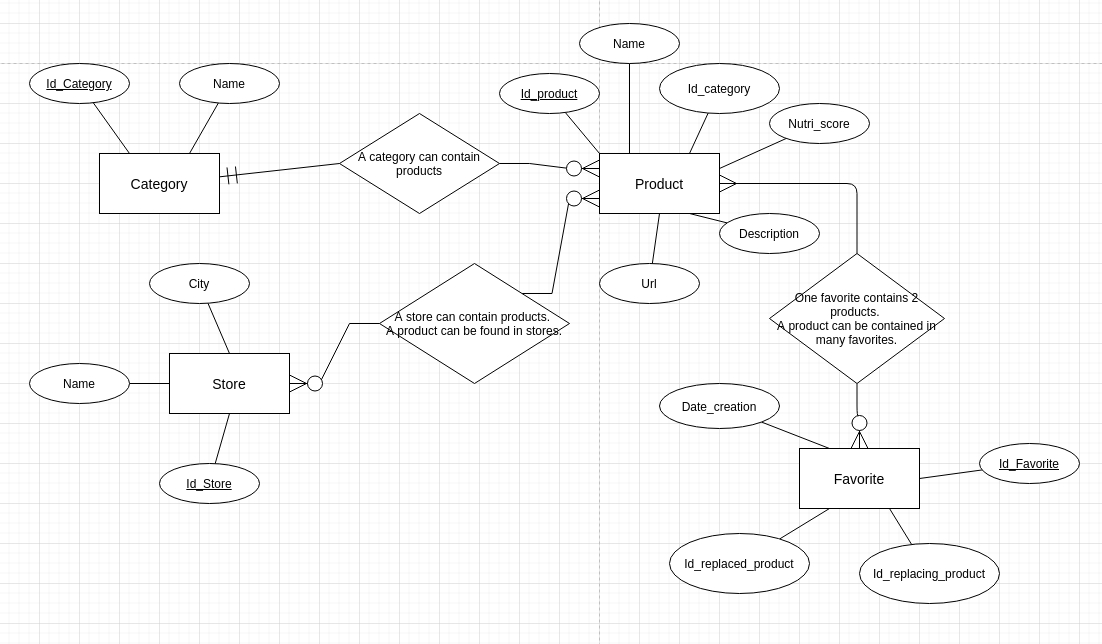
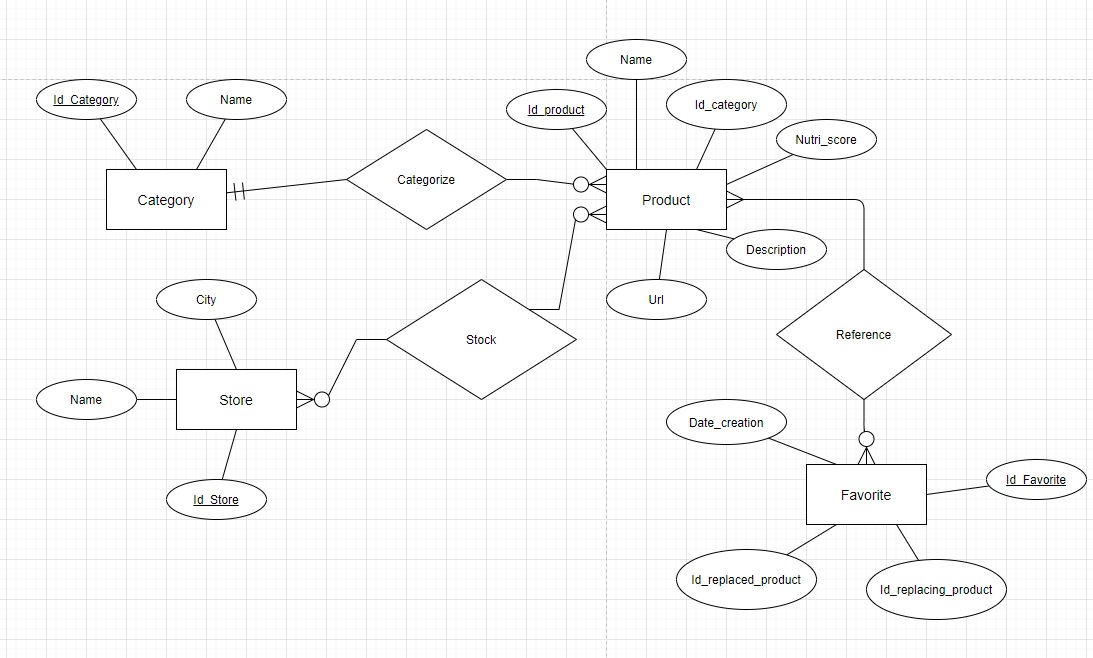
Modifs modèles et schémas + scripts
Finalisation des schémas et avancée sur les scripts divers.

diff --git a/test.py b/test.py
@@ -1,0 +1,17 @@
+import requests
+# import json
+
+PAGE = 1
+PAGE_SIZE = 50
+PRODUCT = 'saucisson sec'
+url = f'https://world.openfoodfacts.org/cgi/search.pl?search_terms={PRODUCT}&search_simple=1&action=process&json=1&page={PAGE}&page_size={PAGE_SIZE}'
+json = requests.get(url).json()
+raw_products = json['products']
+products = []
+for raw_product in raw_products:
+    product = {'nutriscore' : raw_product["nutriscore_grade"], 'name' : raw_product["product_name"]}
+    products.append(product)
+
+
+
+print(products)
